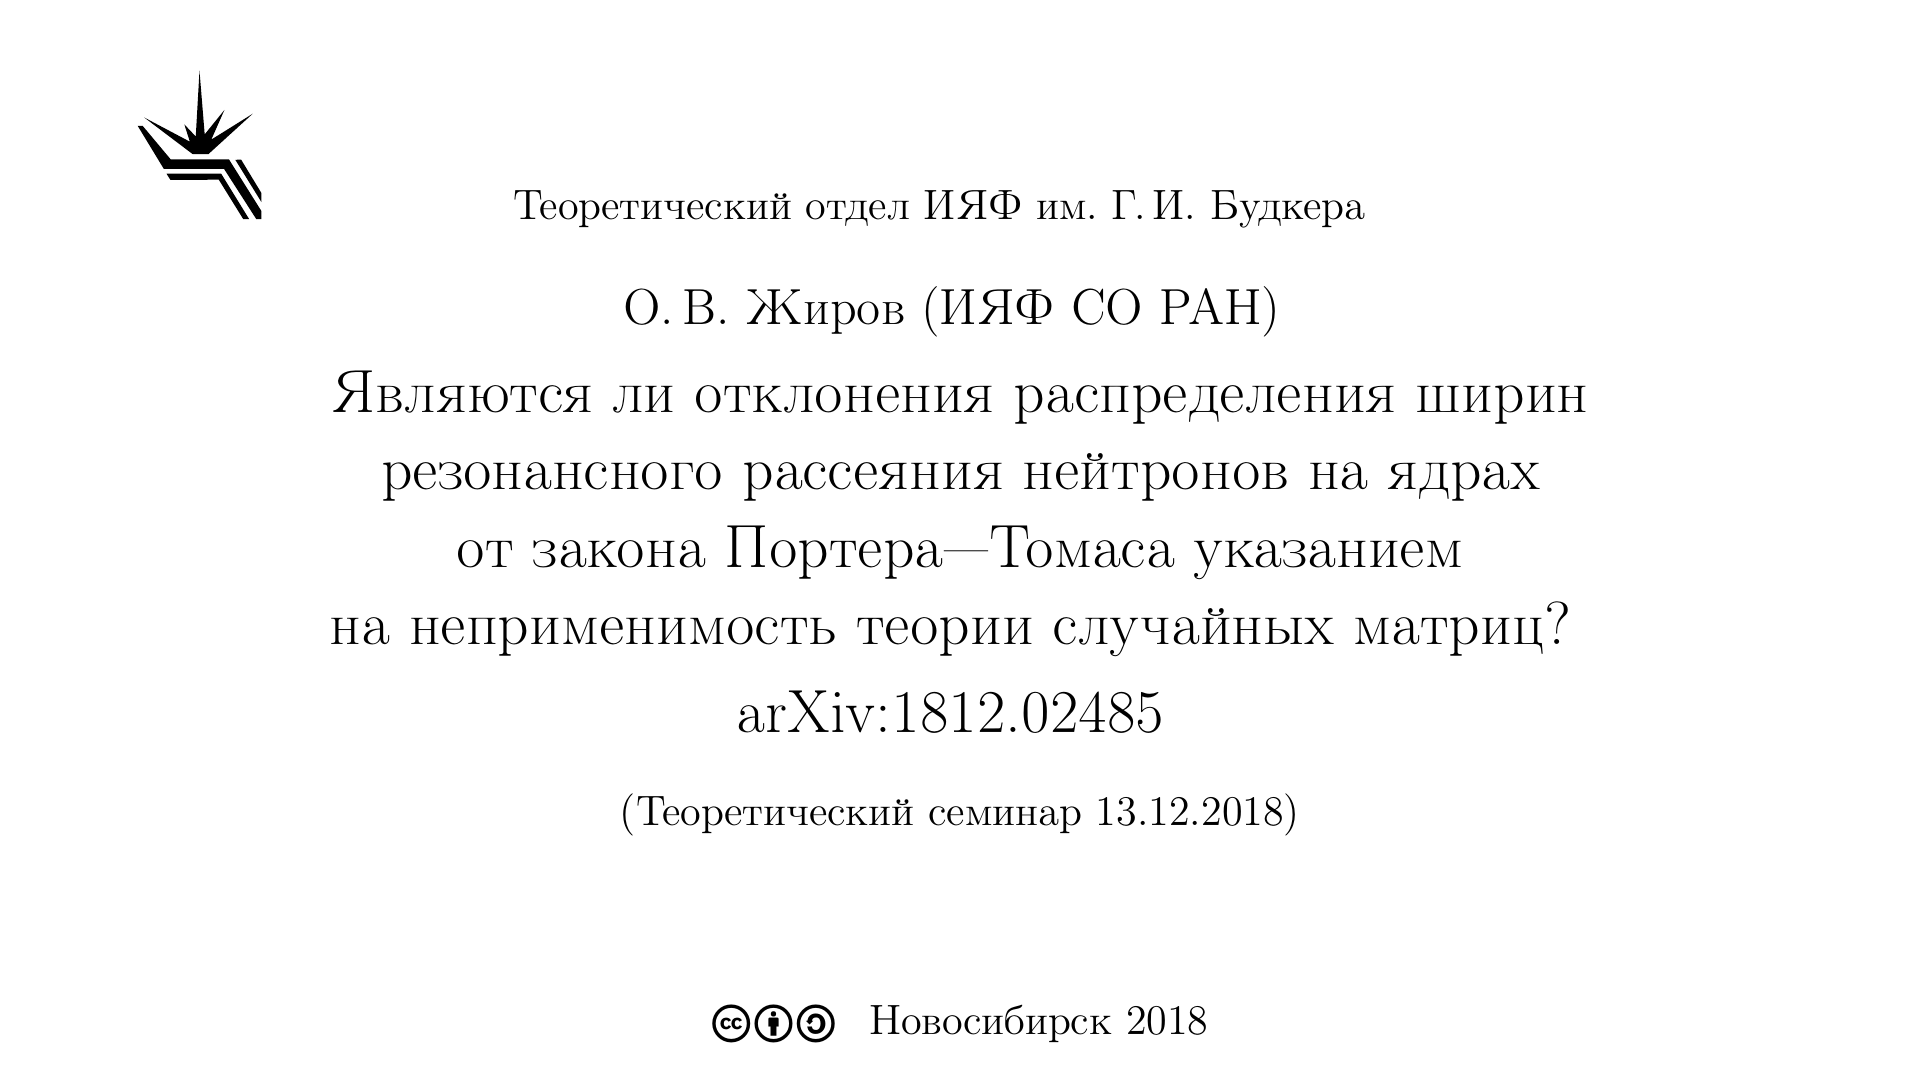
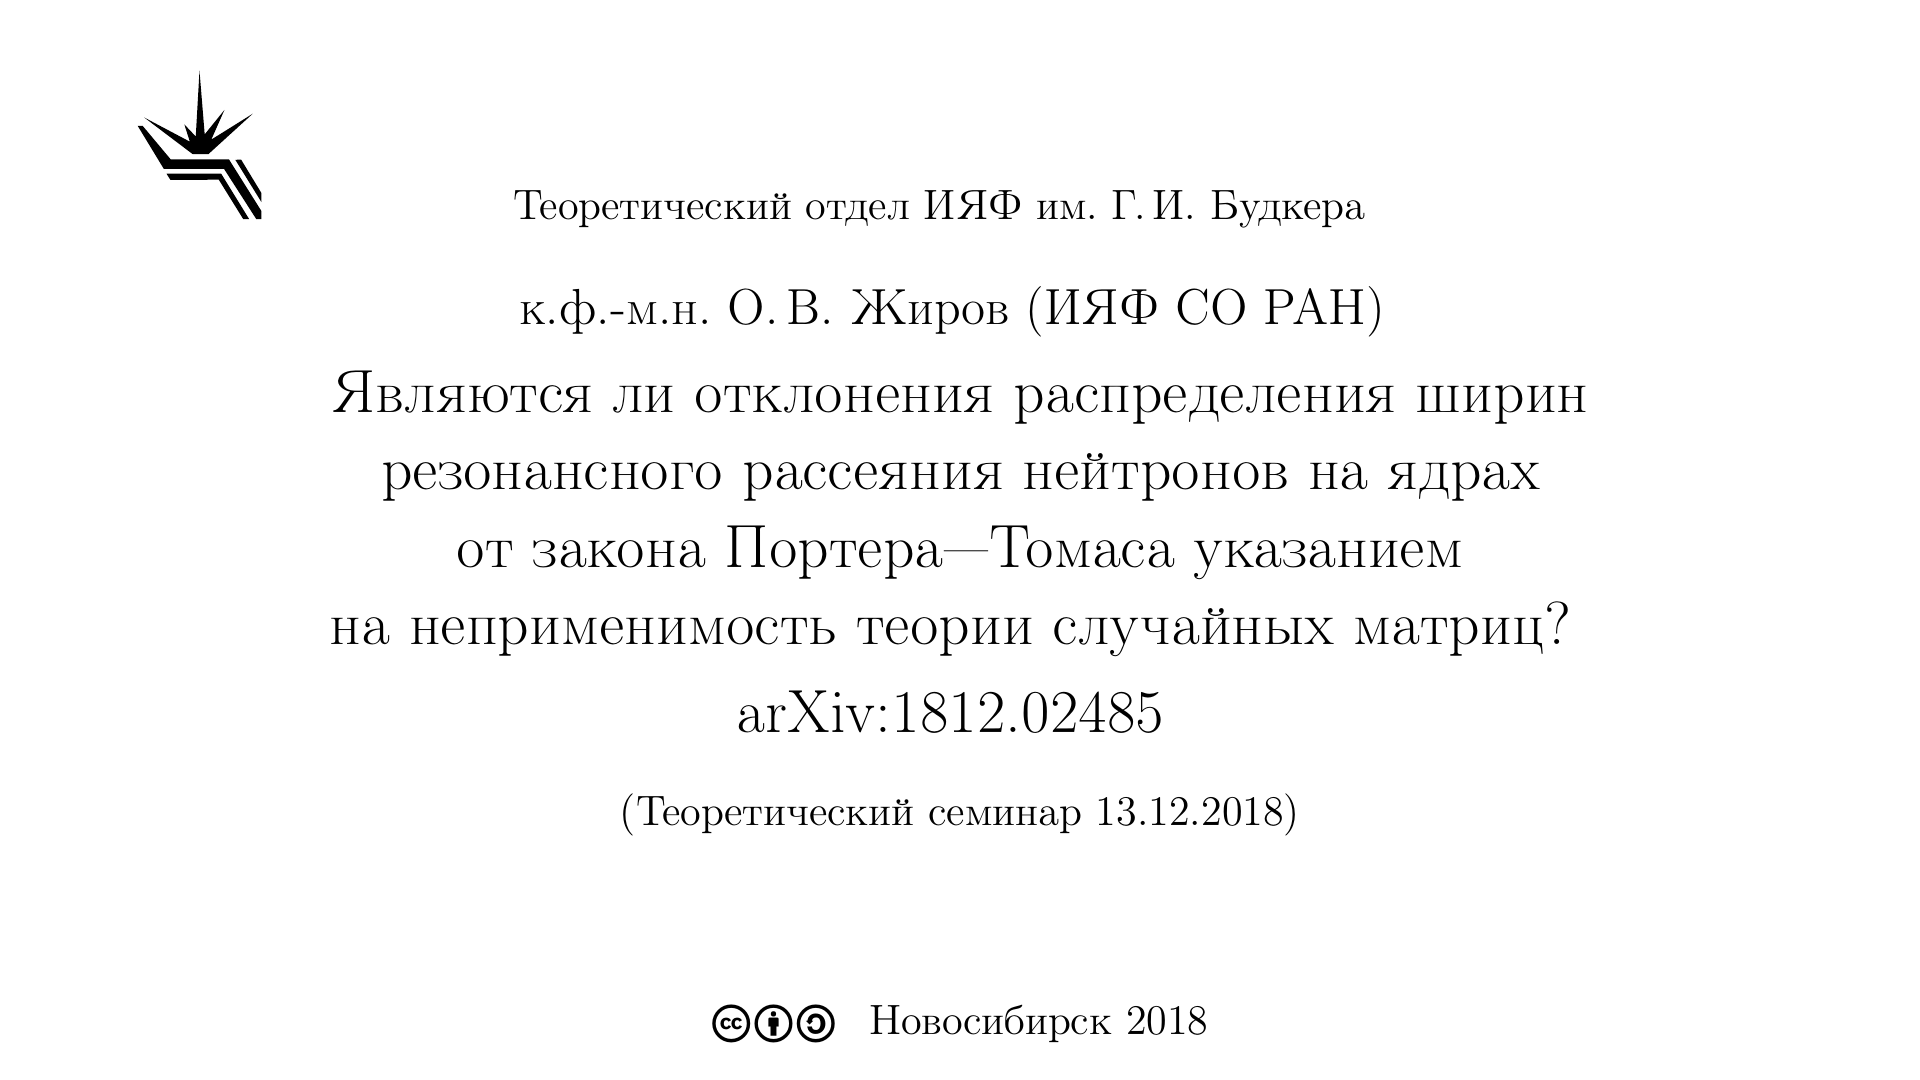
Cover Zhirov update

Changed region(s): [[0.2812, 0.2444, 0.7188, 0.3056]]

diff --git a/Cover/TO_seminars_2018/Zhirov_1812_02485-13_12_2018.tex b/Cover/TO_seminars_2018/Zhirov_1812_02485-13_12_2018.tex
@@ -32,7 +32,7 @@
     \bigskip
 
     \large
-    О.\,В.~Жиров (ИЯФ СО РАН)
+    к.ф.-м.н. О.\,В.~Жиров (ИЯФ СО РАН)
     \smallskip
 
     \Large Являются ли отклонения распределения ширин\\ резонансного
